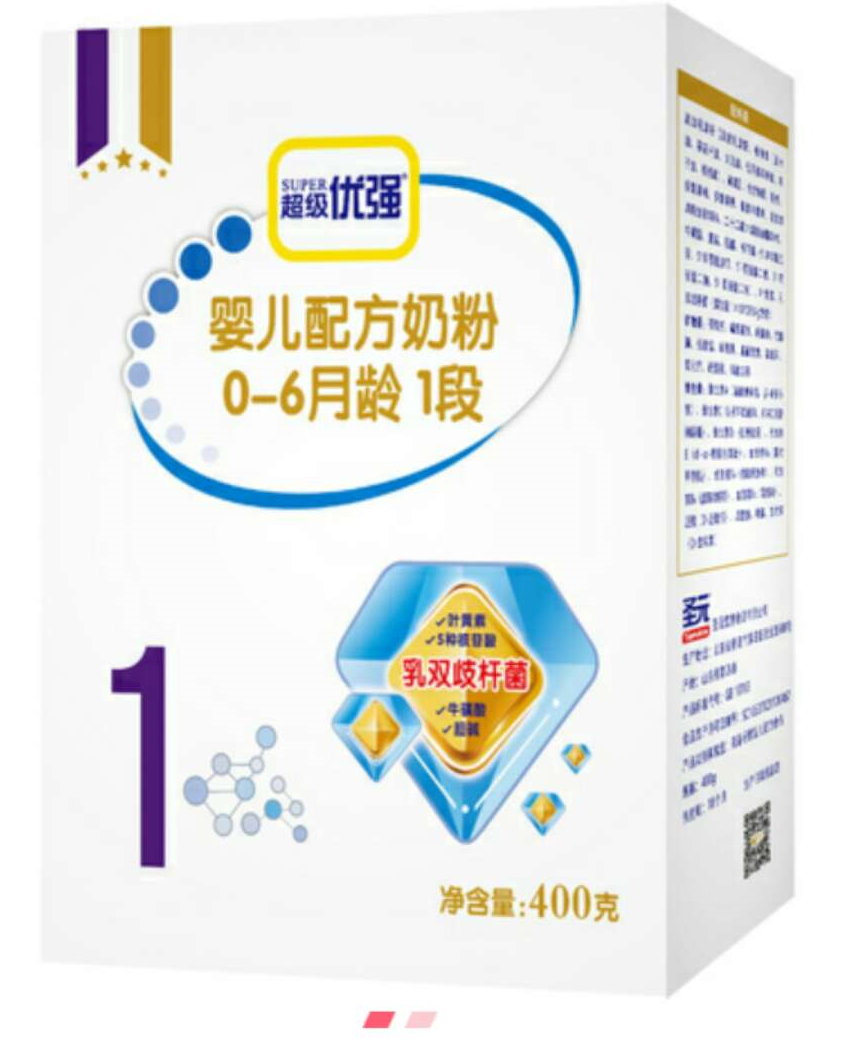
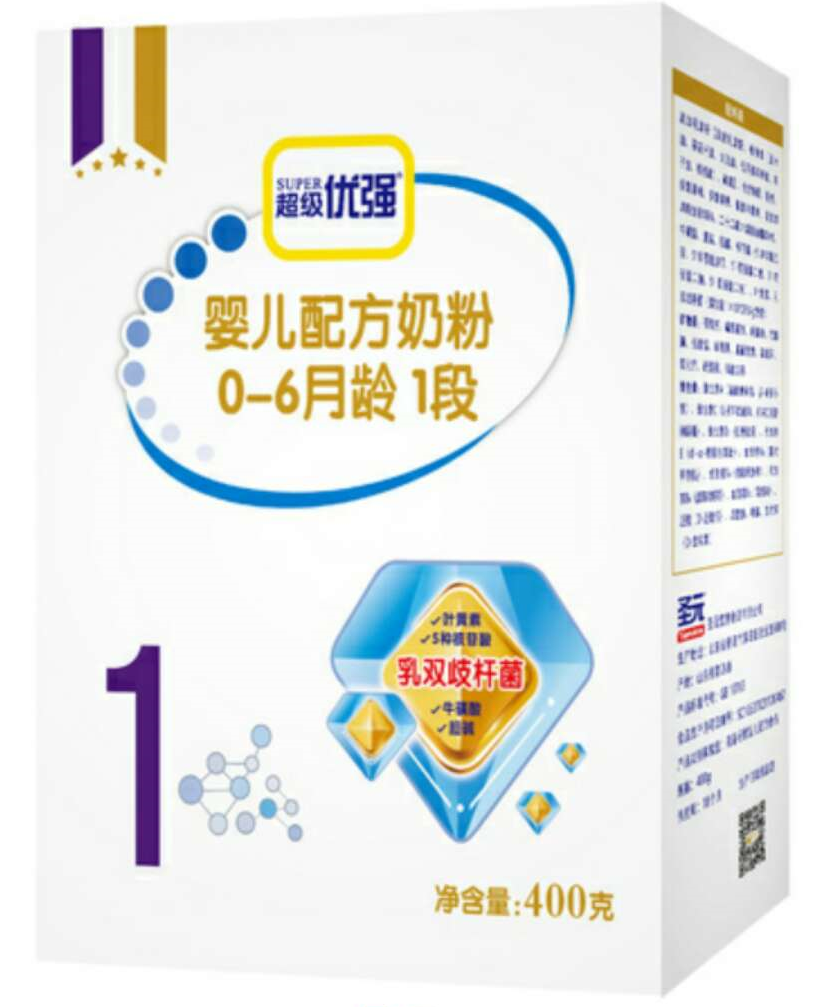
图片滚动设置成功

diff --git a/details.html b/details.html
@@ -240,7 +240,7 @@
             <div class="swiper-container">
                 <div class="swiper-wrapper">
                     <div class="swiper-slide">
-                        <img src="imgs/product.png" height="323" />
+                        <img src="imgs/product.png" height="280" />
                     </div>
                     <div class="swiper-slide">Slide 2</div>
                     <div class="swiper-slide">Slide 3</div>
